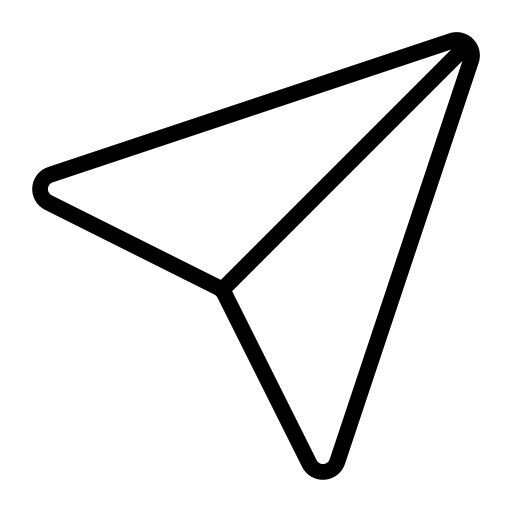
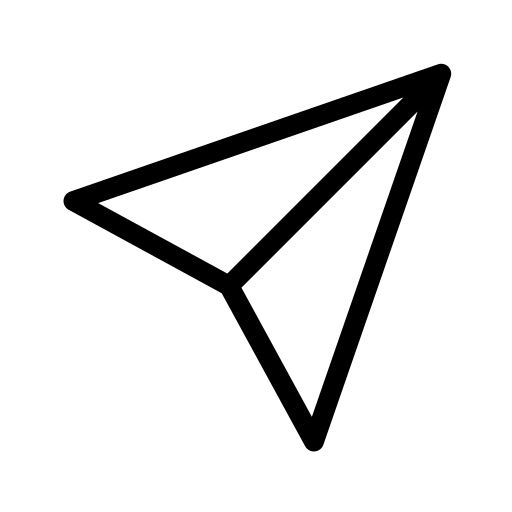
feat: 피드 반응 창 레이아웃 수정

diff --git a/week02/HABIN/Instargram_feed_clone/Instargram_feed_clone.html b/week02/HABIN/Instargram_feed_clone/Instargram_feed_clone.html
@@ -69,8 +69,24 @@
             <div class="feed_image">
                 <img src="./assets/feed_image.JPG" alt="피드이미지">
             </div>
-            <div class="feed_content&reaction">
-                
+            <div class="feed_content_reaction">
+                <div class="feed_reaction">
+                    <div class="feed_reaction_left">
+                        <img src="./assets/heart.png" alt="좋아요">
+                        <p>777</p>
+                        <img src="./assets/speech_bubble.png" alt="댓글">
+                        <p>5</p>
+                        <img src="./assets/DM.png" alt="공유">
+                    </div>
+                    <div class="feed_reaction_right">
+                        <img src="./assets/bookmark.png" alt="북마크"> 
+                    </div>
+                </div>
+                <div class="feed_content">
+                    <p>
+                        프론트엔드 화이팅
+                    </p>
+                </div>
             </div>
         </div>
     </main>

diff --git a/week02/HABIN/Instargram_feed_clone/main.css b/week02/HABIN/Instargram_feed_clone/main.css
@@ -108,3 +108,31 @@
     width: 24px;
     height: 24px;
 }
+.feed_content_reaction{
+    width: 470px;
+    height: 92px;
+    padding: 0px 12px;
+}
+.feed_reaction{
+    display: flex;
+    flex-direction: row;
+    align-items: center;
+    width: 446px;
+    height: 40px;
+    margin: 4px;
+}
+.feed_reaction img{
+    width: 40px;
+    height: 40px;
+    padding: 8px;
+}
+.feed_reaction_left{
+    display: flex;
+    flex-direction: row;
+    align-items: center;
+    width: 223px;
+    height: 40px;
+}
+.feed_reaction_right{
+    margin-left: 167px;
+}
